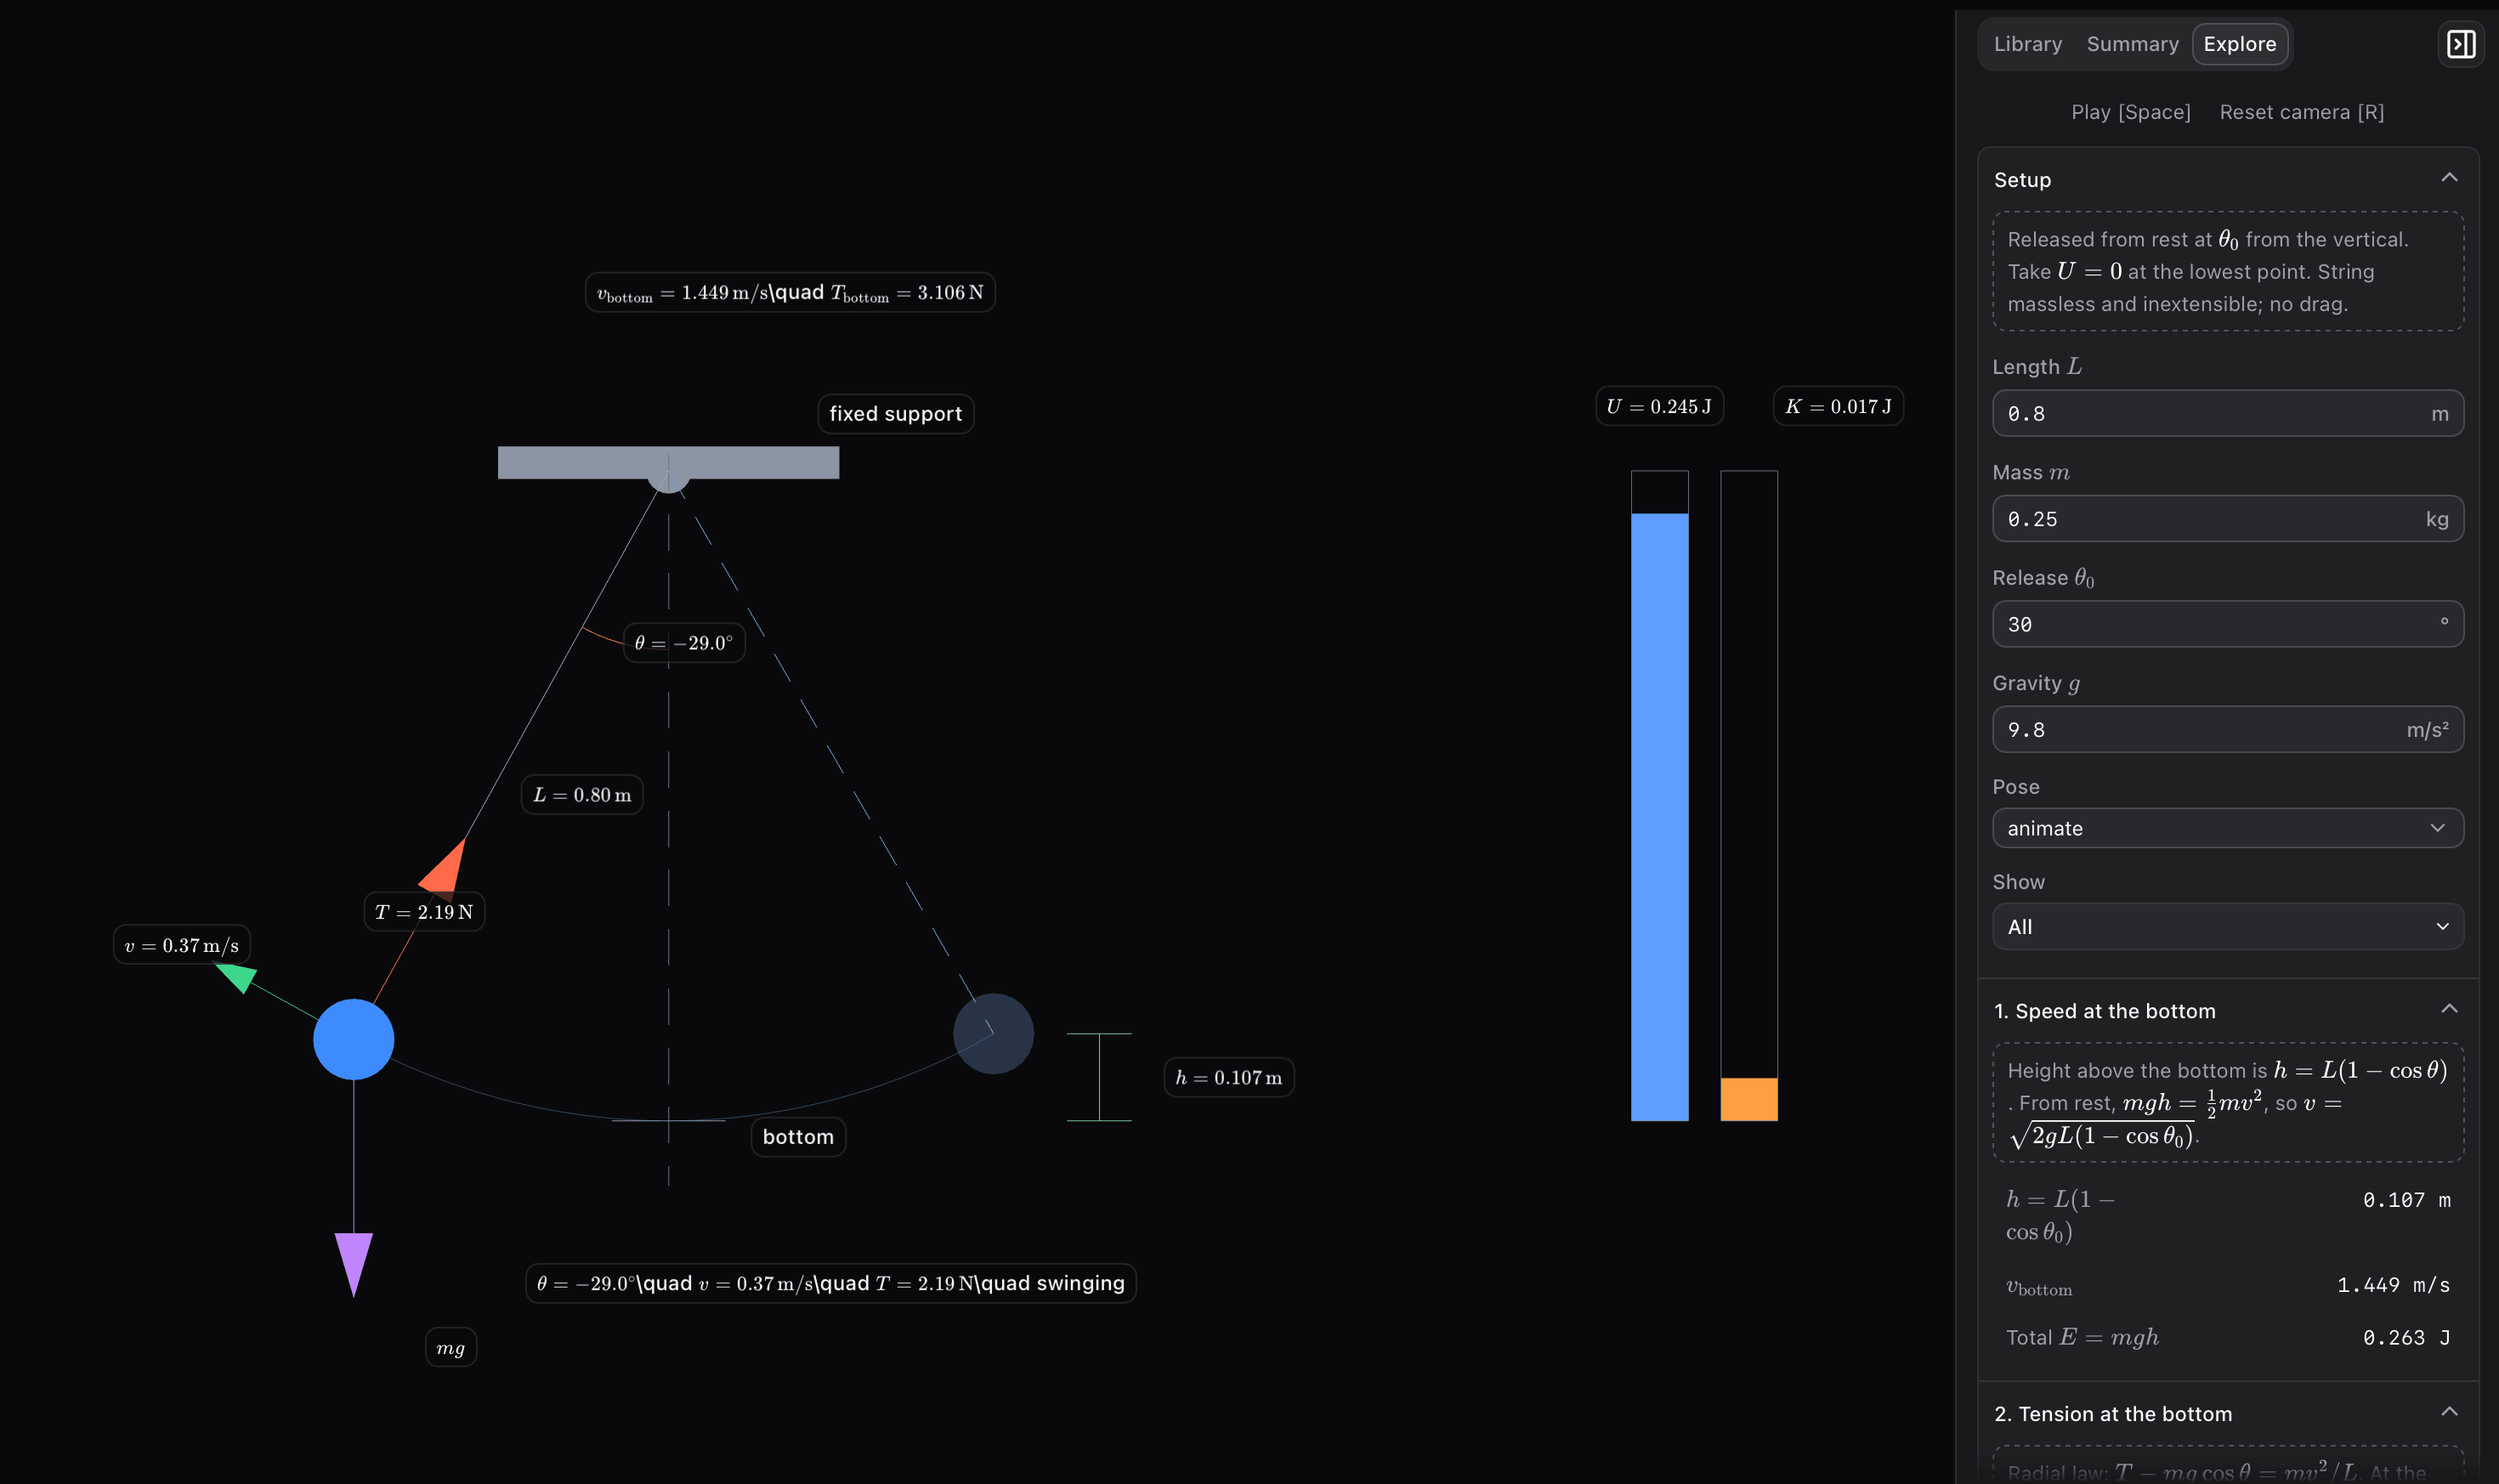
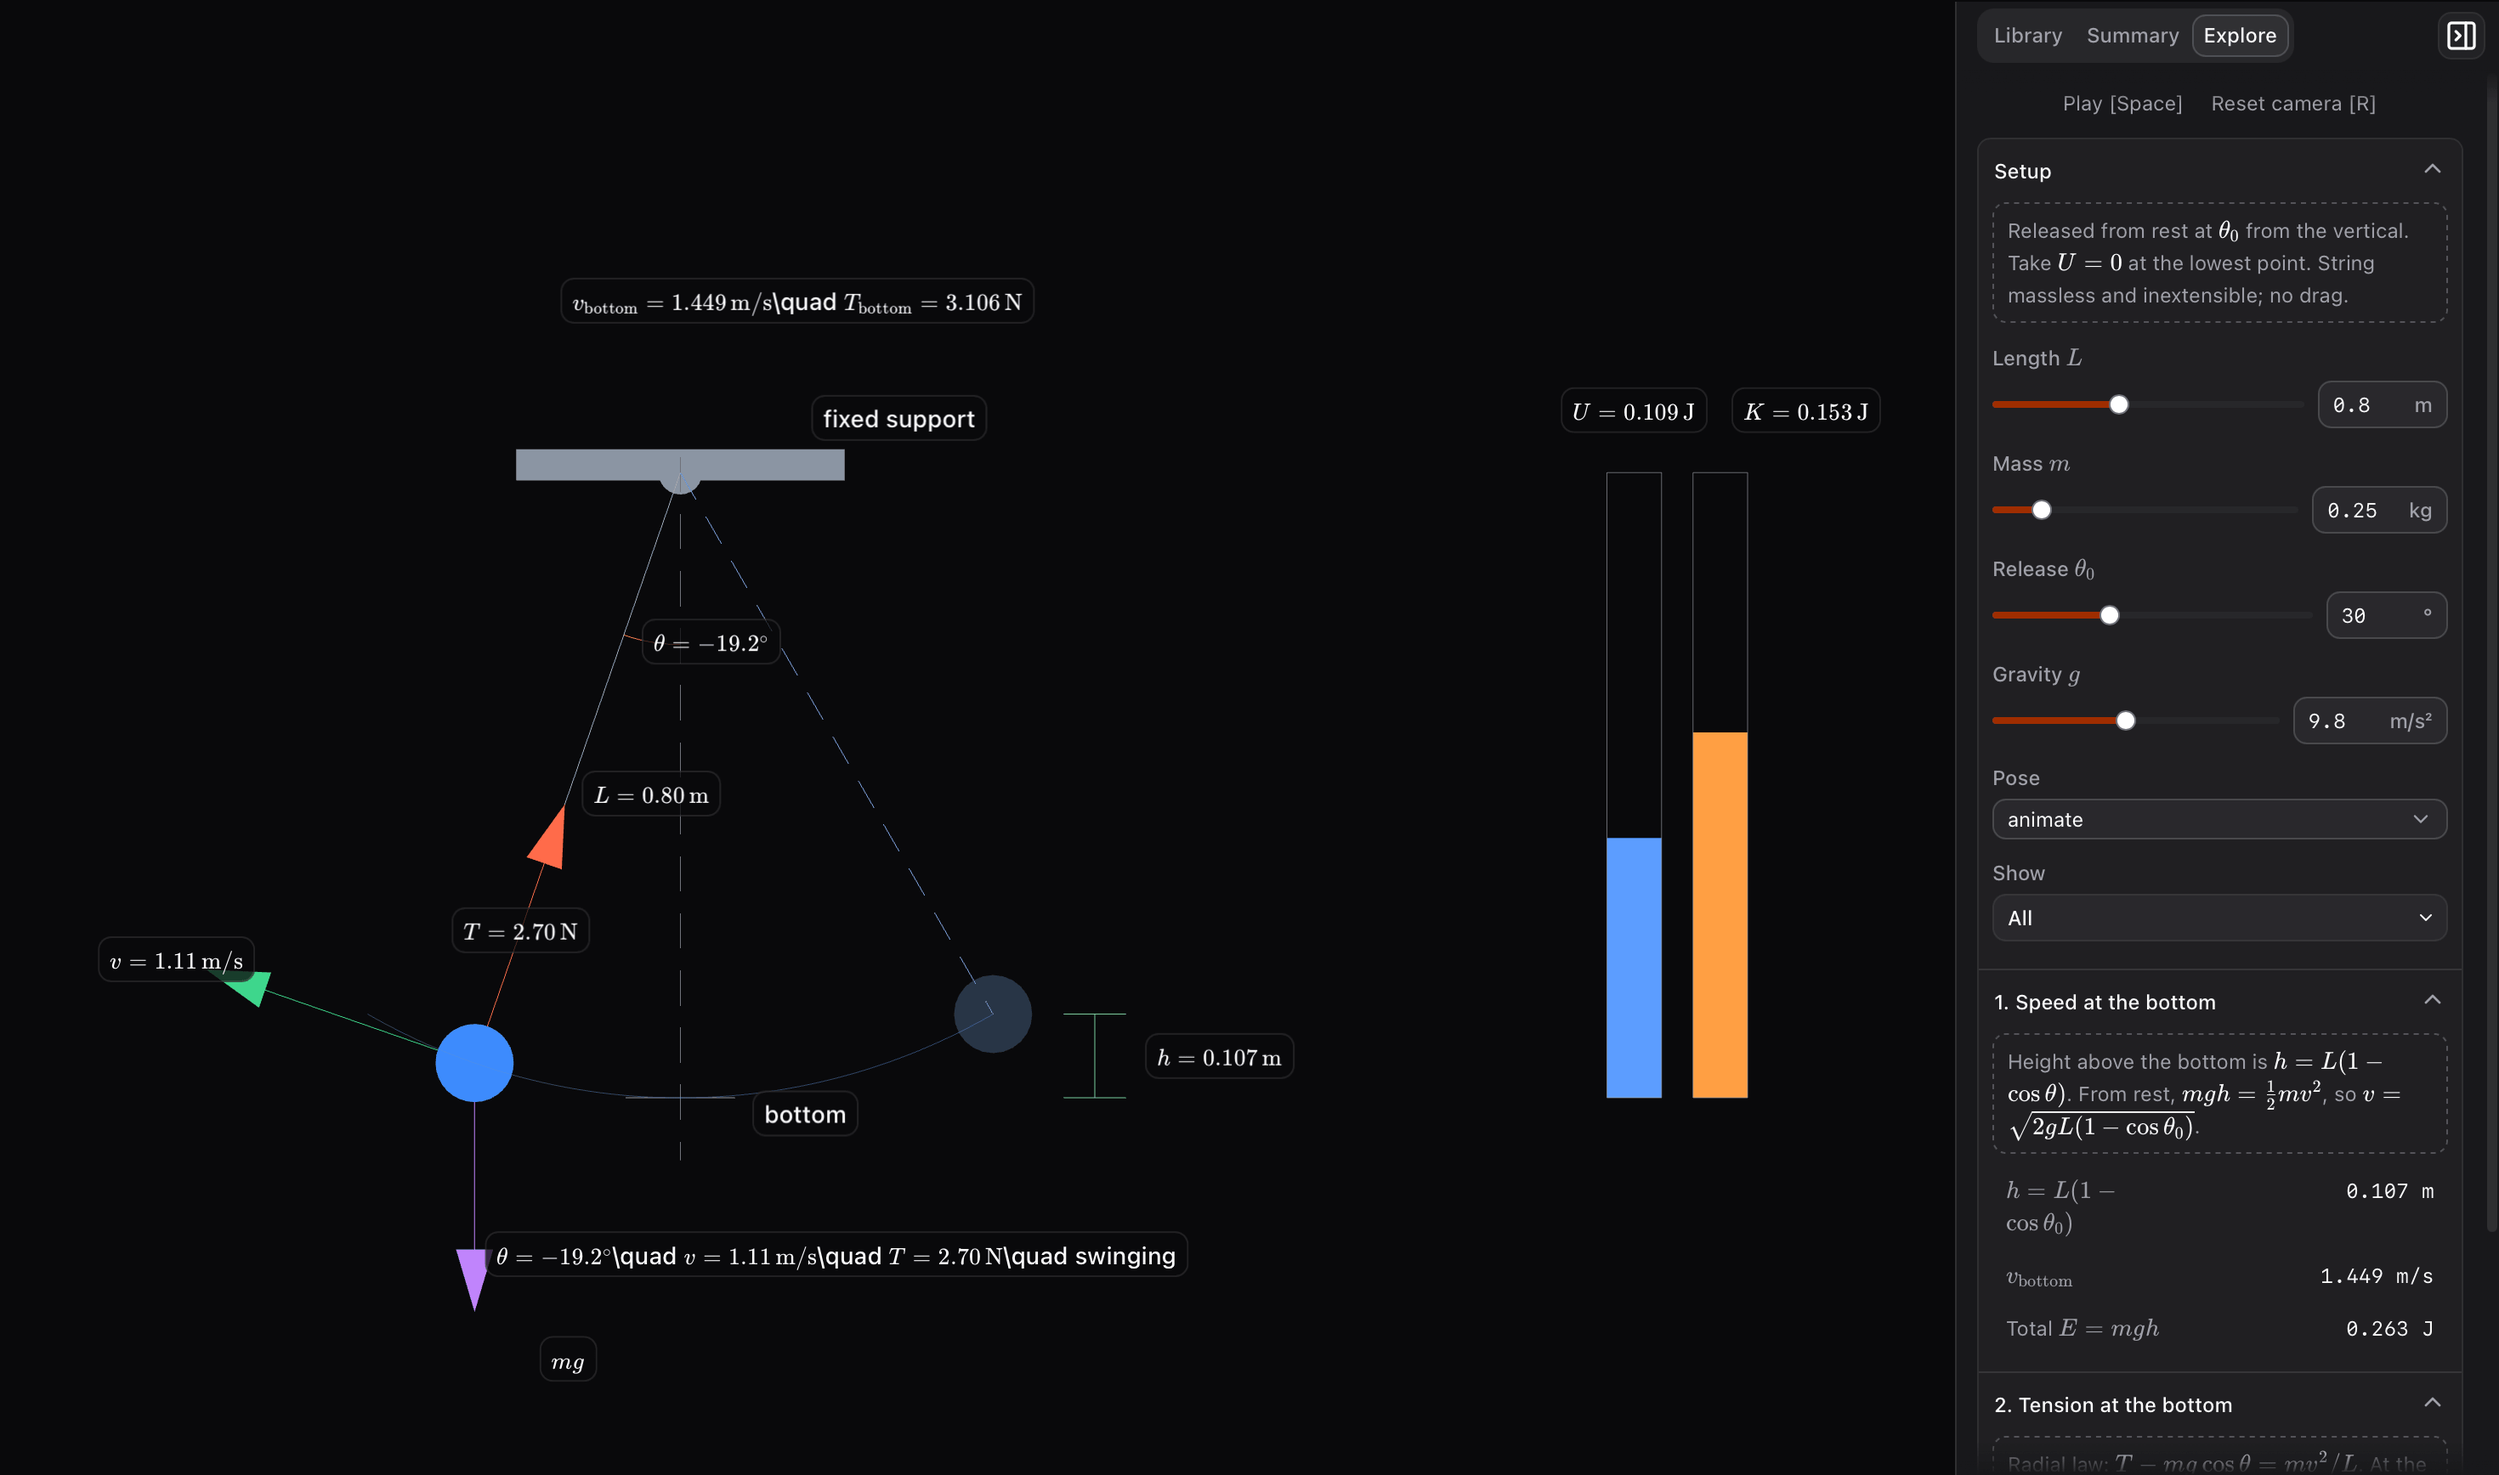
Updated screenshots (with new slider and fullscreen overview features)

diff --git a/README.md b/README.md
@@ -6,17 +6,19 @@ Talk to your AI — it builds interactive 2D/3D scenes for class / homework / de
 
 Three example scenes from real prompts. Come included in the package your AI agent installs (see Install section).
 
-1. Theory: linear algebra - [see prompt](https://github.com/igoakulov/scenie/blob/main/examples/example-theory/metadata.json)
+1. Example showcase: solar system - [see prompt](https://github.com/igoakulov/scenie/blob/main/examples/example-showcase/metadata.json)
 
-![Example theory: linear algebra](https://raw.githubusercontent.com/igoakulov/scenie/main/examples/screenshots/example-theory.png)
+![Example showcase: solar system](https://raw.githubusercontent.com/igoakulov/scenie/main/examples/screenshots/example-showcase.png)
 
-2. Homework: pendulum physics - [see prompt](https://github.com/igoakulov/scenie/blob/main/examples/example-homework/metadata.json)
+2. Example homework: pendulum physics - [see prompt](https://github.com/igoakulov/scenie/blob/main/examples/example-homework/metadata.json)
 
 ![Example homework: pendulum physics](https://raw.githubusercontent.com/igoakulov/scenie/main/examples/screenshots/example-homework.png)
 
-3. Showcase: solar system - [see prompt](https://github.com/igoakulov/scenie/blob/main/examples/example-showcase/metadata.json)
+3. Example theory: linear algebra - [see prompt](https://github.com/igoakulov/scenie/blob/main/examples/example-theory/metadata.json)
 
-![Example showcase: solar system](https://raw.githubusercontent.com/igoakulov/scenie/main/examples/screenshots/example-showcase.png)
+![Example theory: linear algebra](https://raw.githubusercontent.com/igoakulov/scenie/main/examples/screenshots/example-theory.png)
+![Example theory: linear algebra](https://raw.githubusercontent.com/igoakulov/scenie/main/examples/screenshots/example-theory-overview.png)
+
 
 ## Who Scenie is for
 
